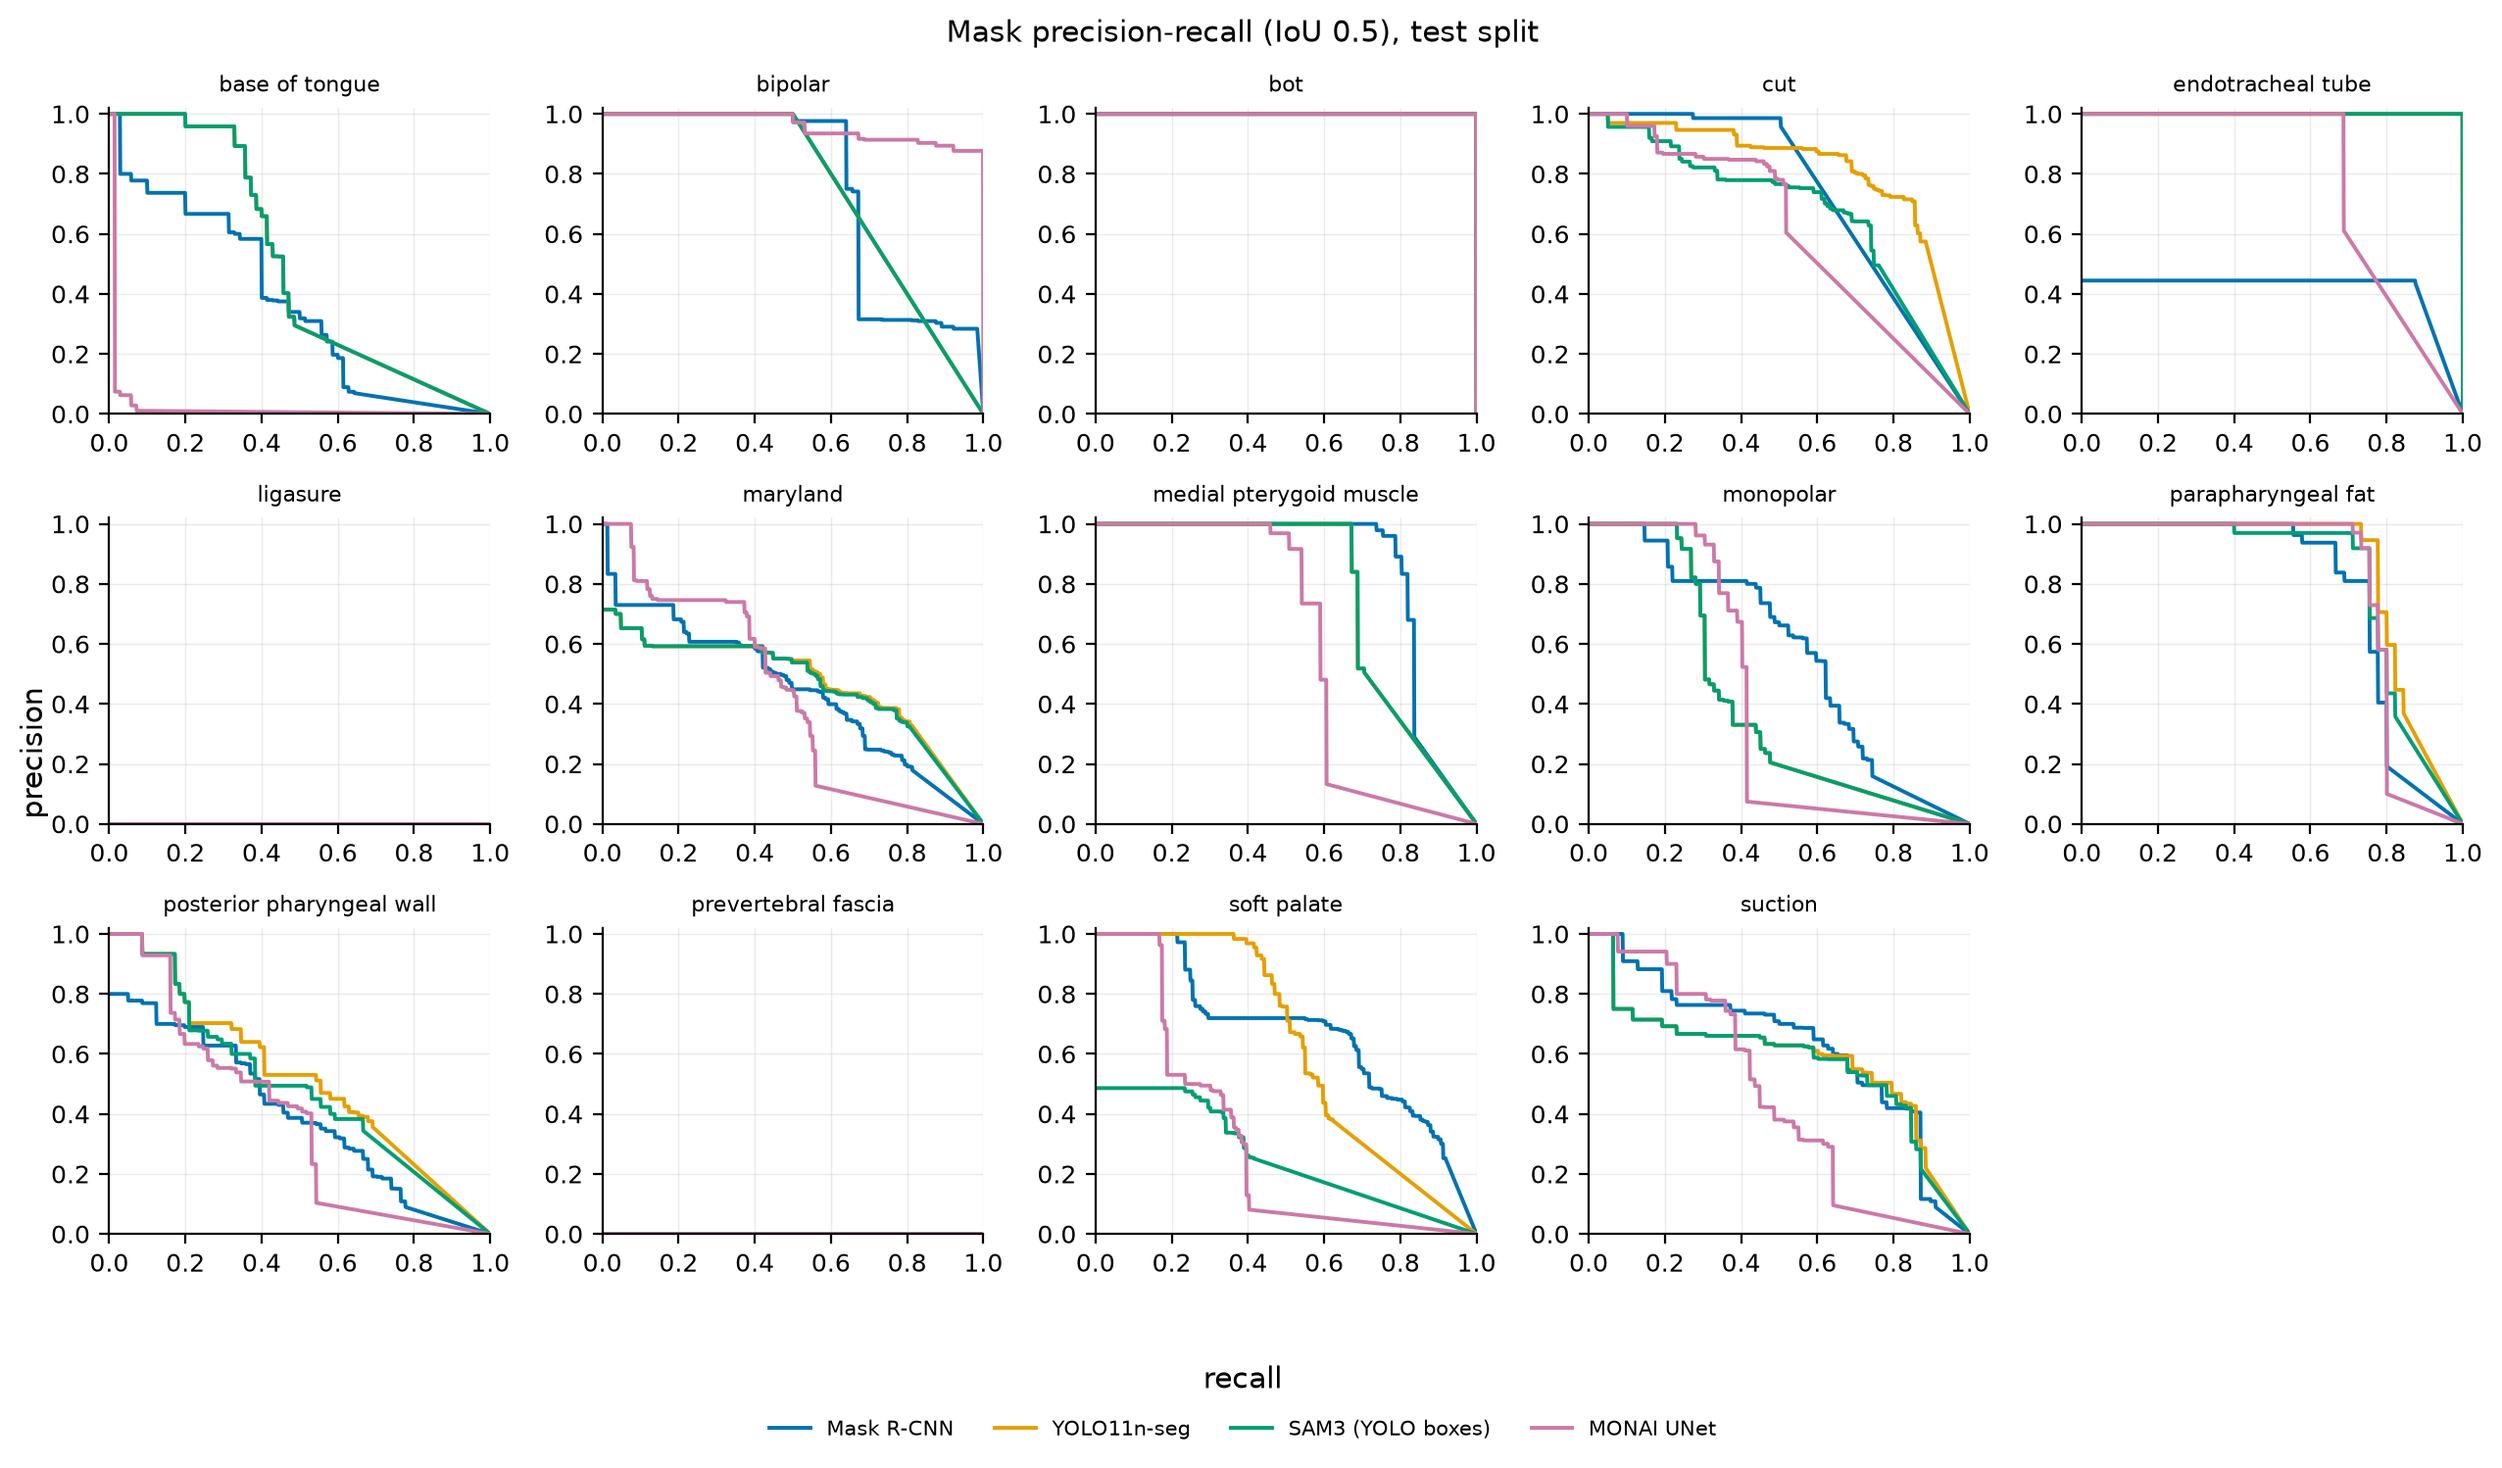
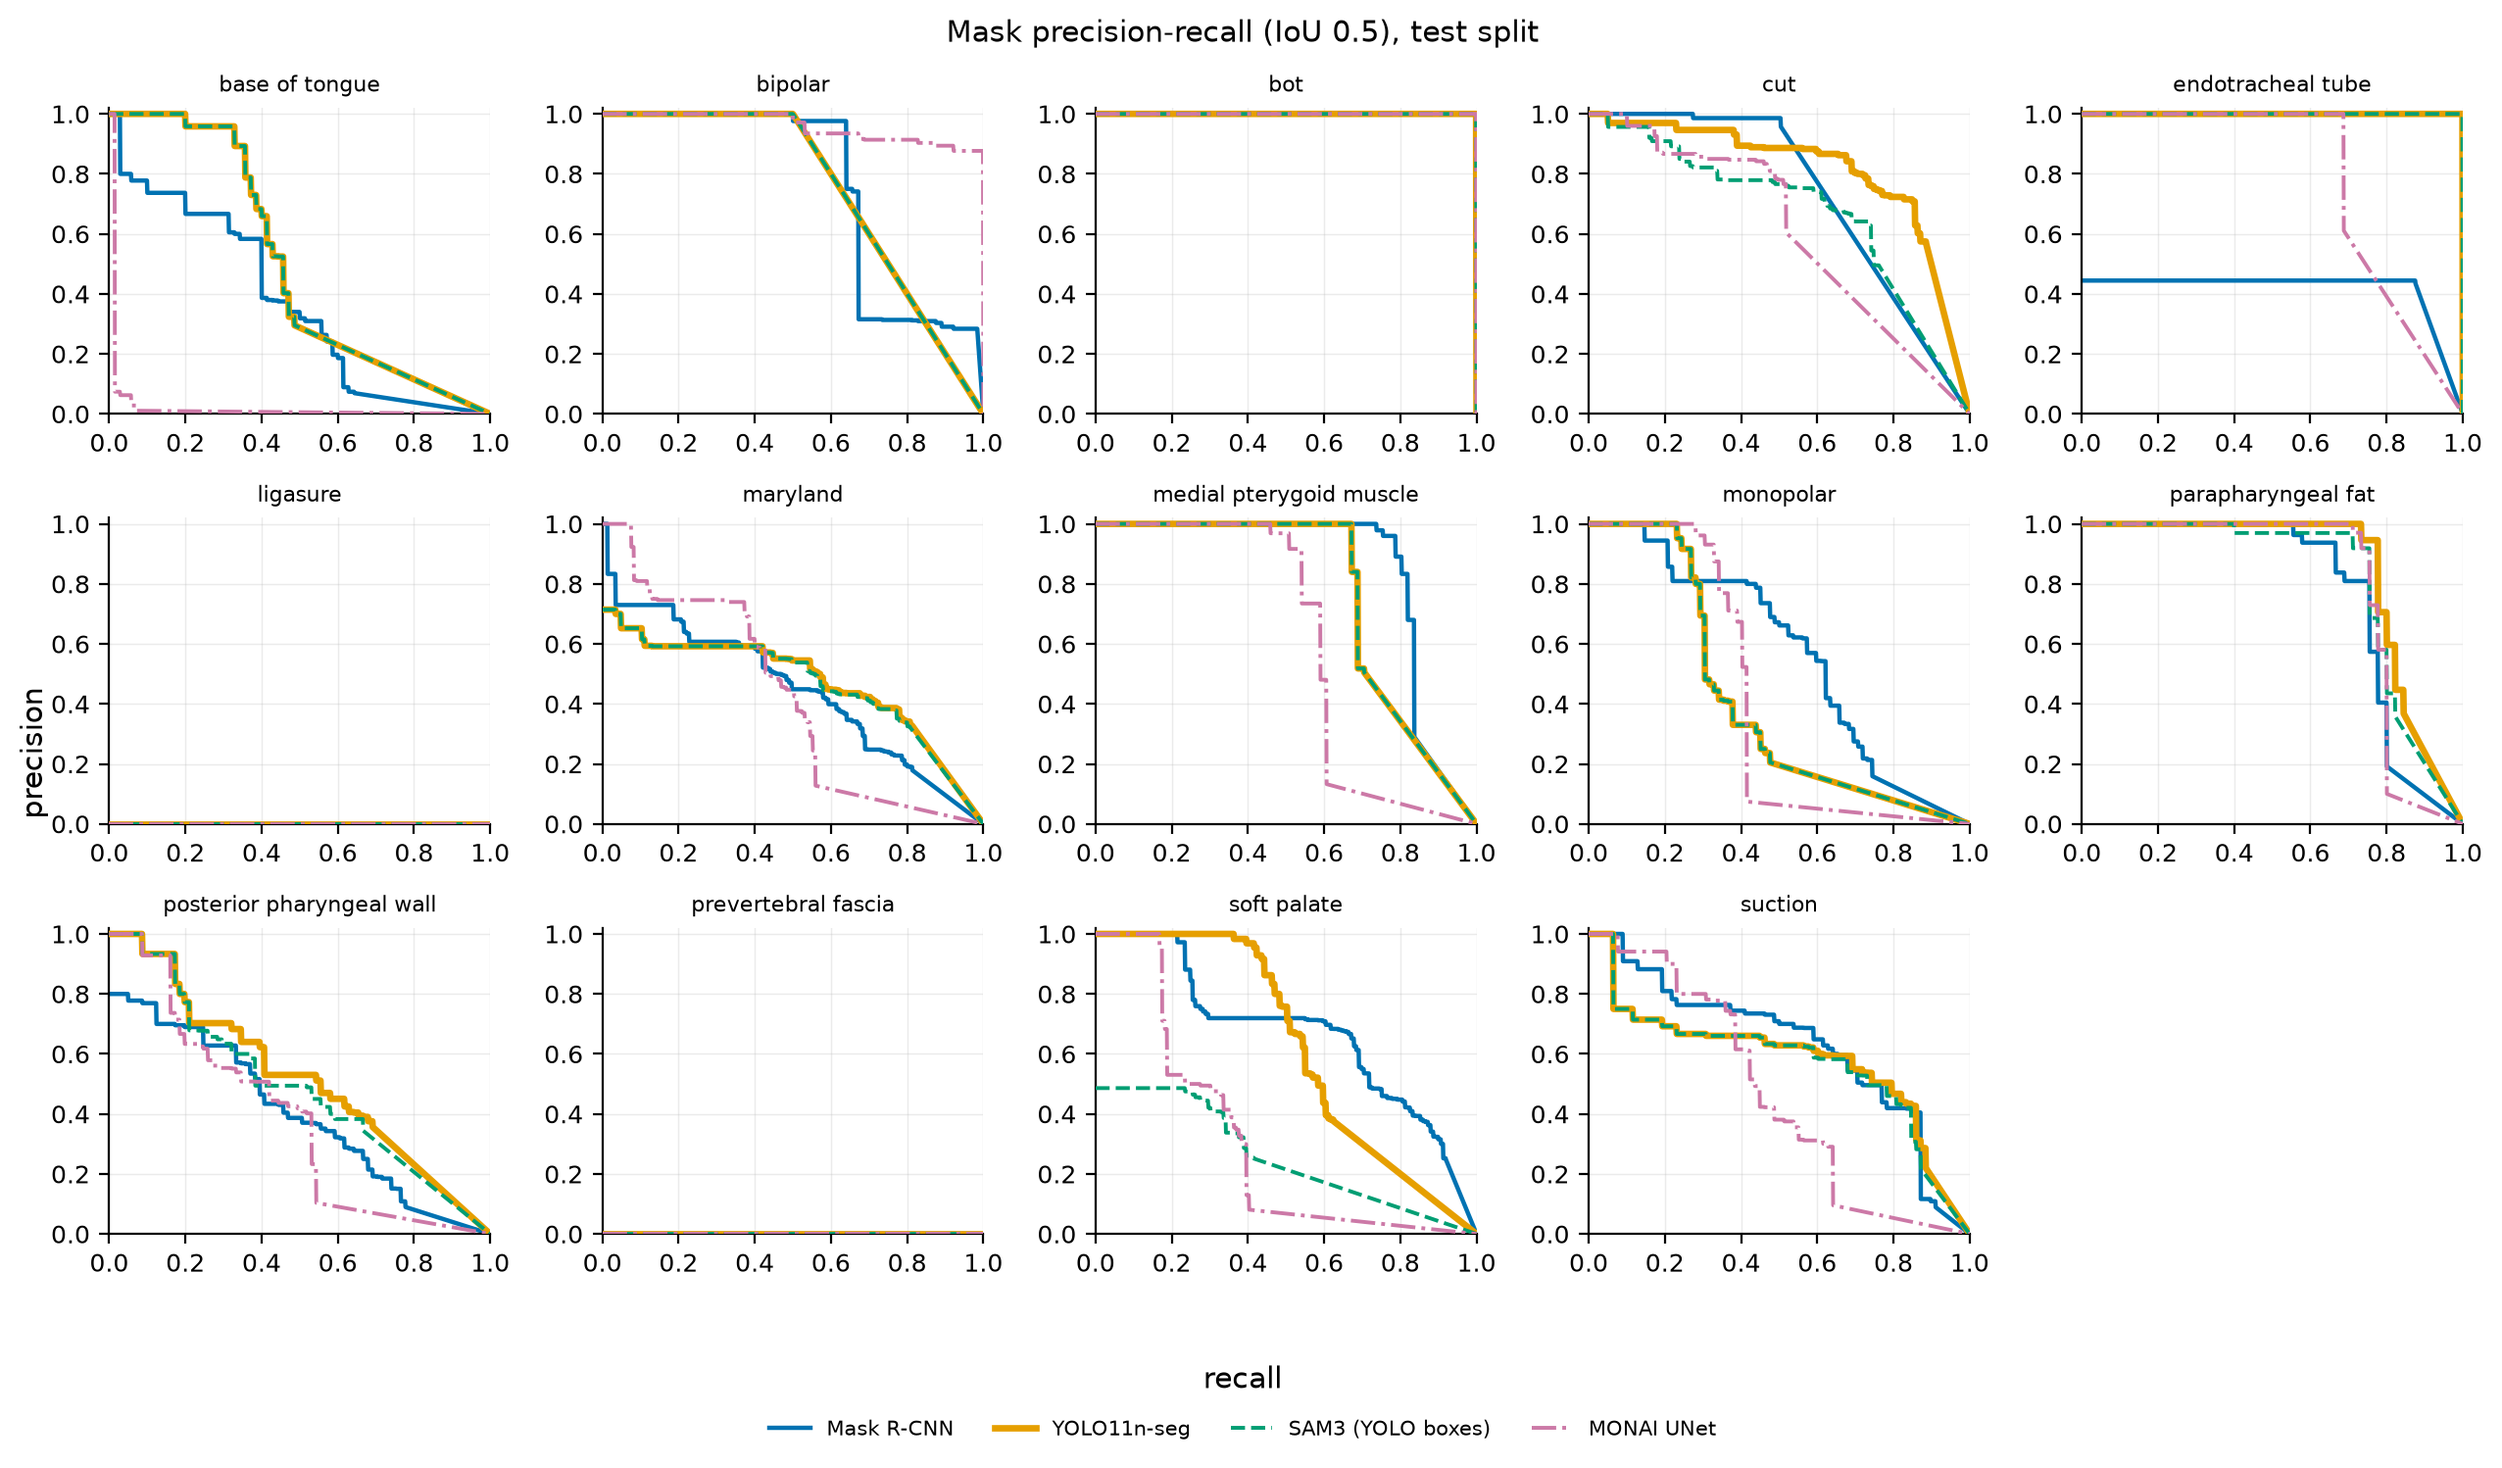
Figure 2 per-class: per-model line styles (YOLO thick solid, SAM3+YOLO dashed on top, MONAI dash-dot) so coincident curves stay visible

diff --git a/plot/plot_config.py b/plot/plot_config.py
@@ -14,14 +14,16 @@ FIG_DIR = RESULT / "figures"
 # (its numbers are not collected yet -- see README "SAM2").
 # ---------------------------------------------------------------------------
 # Every model key that can appear anywhere. label = legend / panel title, short = table header,
-# color = Okabe-Ito (colour-blind safe).
+# color = Okabe-Ito (colour-blind safe), ls/lw = line style/width where models share an axis (Fig 2 per-class,
+# Fig 5) -- curves that coincide (SAM3 (YOLO boxes) sits on YOLO's) stay visible because the later one is dashed
+# and drawn on top of a slightly thicker solid line. Draw order = dict order.
 ALL_MODELS = {
-    "maskrcnn":     {"label": "Mask R-CNN",               "short": "Mask R-CNN",  "color": "#0072B2"},
-    "yolo":         {"label": "YOLO11n-seg",              "short": "YOLO11n",     "color": "#E69F00"},
-    "sam3_yolobox": {"label": "SAM3 (YOLO boxes)",        "short": "SAM3+YOLO",   "color": "#009E73"},
-    "sam3_text":    {"label": "SAM3 (text prompt, zero-shot)", "short": "SAM3 text", "color": "#56B4E9"},
-    "sam3_gtbox":   {"label": "SAM3 (GT boxes, oracle)",  "short": "SAM3 GTbox", "color": "#999999"},
-    "monai":        {"label": "MONAI UNet",               "short": "MONAI",       "color": "#CC79A7"},
+    "maskrcnn":     {"label": "Mask R-CNN",               "short": "Mask R-CNN",  "color": "#0072B2", "ls": "-",  "lw": 1.6},
+    "yolo":         {"label": "YOLO11n-seg",              "short": "YOLO11n",     "color": "#E69F00", "ls": "-",  "lw": 2.4},
+    "sam3_yolobox": {"label": "SAM3 (YOLO boxes)",        "short": "SAM3+YOLO",   "color": "#009E73", "ls": "--", "lw": 1.4},
+    "sam3_text":    {"label": "SAM3 (text prompt, zero-shot)", "short": "SAM3 text", "color": "#56B4E9", "ls": ":", "lw": 1.6},
+    "sam3_gtbox":   {"label": "SAM3 (GT boxes, oracle)",  "short": "SAM3 GTbox", "color": "#999999", "ls": ":",  "lw": 1.6},
+    "monai":        {"label": "MONAI UNet",               "short": "MONAI",       "color": "#CC79A7", "ls": "-.", "lw": 1.4},
 }
 # The MAIN comparison (Figs 1b, 2, 3, 4): one column per system. SAM3 enters as the two-stage
 # YOLO-boxes -> SAM3 pipeline (decision 2026-09-18: the zero-shot text-prompted SAM3 scores ~0.03 mAP on

diff --git a/plot/make_figures.py b/plot/make_figures.py
@@ -282,13 +282,14 @@ def _fig2(layout):
             ax = axes[k // ncol, k % ncol]
             ax.set_title(cls, fontsize=8)
             any_ = False
-            for m in C.MODELS:
+            for z, m in enumerate(C.MODELS):
                 d = curves[m]
+                style = dict(color=C.MODELS[m]["color"], linestyle=C.MODELS[m].get("ls", "-"),
+                             linewidth=C.MODELS[m].get("lw", 1.4), zorder=2 + z)
                 if d and cls in d["classes"]:
-                    ax.plot(d["recall"], d["classes"][cls]["precision"], color=C.MODELS[m]["color"],
-                            label=C.MODELS[m]["label"]); any_ = True
+                    ax.plot(d["recall"], d["classes"][cls]["precision"], label=C.MODELS[m]["label"], **style); any_ = True
                 else:
-                    ax.plot([], [], color=C.MODELS[m]["color"], label=f"{C.MODELS[m]['label']} ({C.NP_TEXT})")
+                    ax.plot([], [], label=f"{C.MODELS[m]['label']} ({C.NP_TEXT})", **style)
             if not any_:
                 np_panel(ax)
             ax.set_xlim(0, 1); ax.set_ylim(0, 1.02)
@@ -505,7 +506,7 @@ def fig5():
             continue
         xs = sorted(pts); ys = [np.mean(pts[k]) for k in xs]; es = [np.std(pts[k]) for k in xs]
         ax.errorbar(xs, ys, yerr=es if any(es) else None, marker="o", ms=4, capsize=2,
-                    color=C.MODELS[m]["color"], label=C.MODELS[m]["label"])
+                    color=C.MODELS[m]["color"], linestyle=C.MODELS[m].get("ls", "-"), label=C.MODELS[m]["label"])
         drawn = True
     if not drawn:
         np_panel(ax, f"{C.NP_TEXT}\n(data/dataset_size_sweep.csv empty -- see scripts/rerun/dataset_size_sweep/)")
